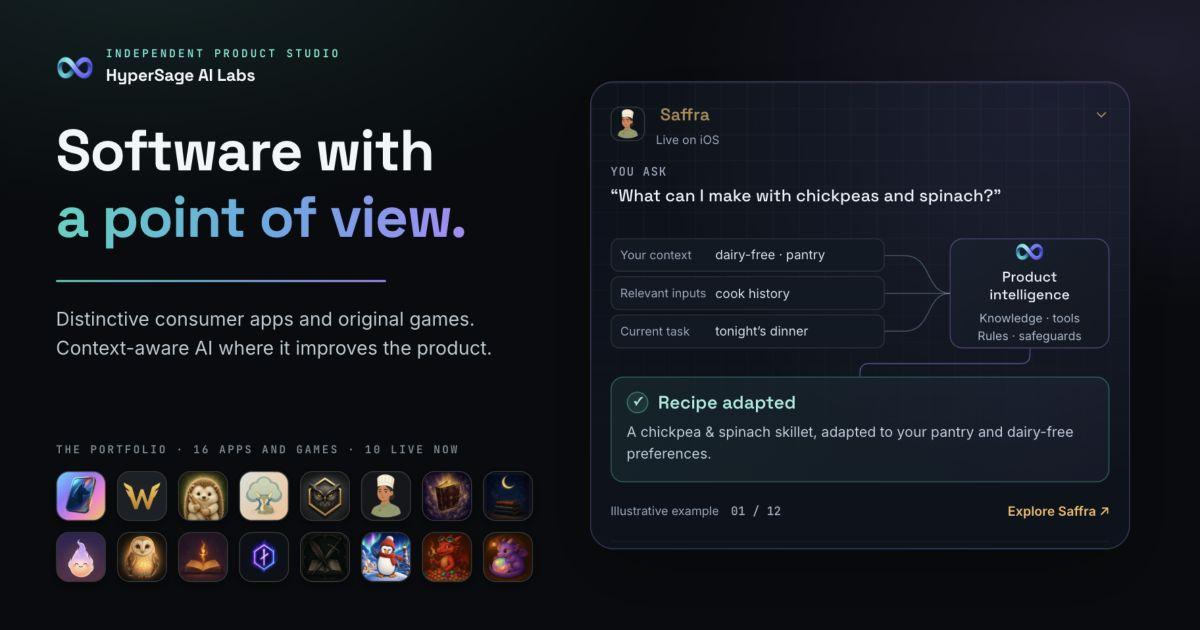
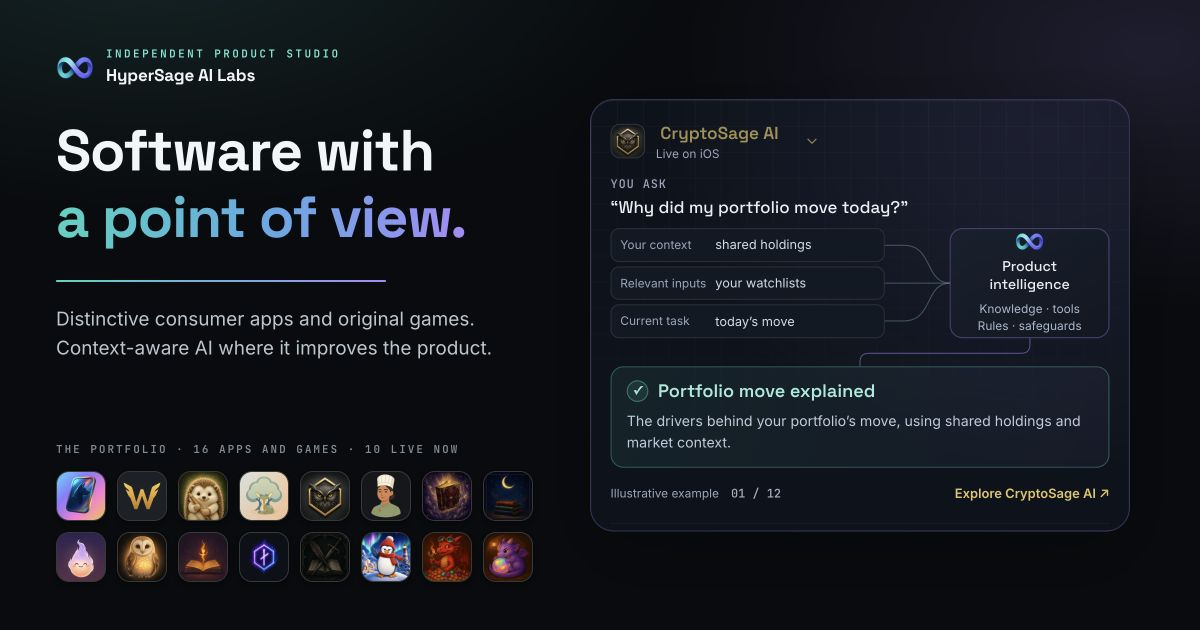
Tighten hero spacing and restore portfolio breadth

diff --git a/index.html b/index.html
@@ -17,7 +17,7 @@
   <meta property="og:description" content="HyperSage is an independent studio building distinctive consumer apps and original games, with context-aware AI where it improves the product.">
   <meta property="og:url" content="https://hypersage.ai/">
   <meta property="og:site_name" content="HyperSage AI Labs">
-  <meta property="og:image" content="https://hypersage.ai/og-image.png?v=20260907b">
+  <meta property="og:image" content="https://hypersage.ai/og-image.png?v=20260907c">
   <meta property="og:image:type" content="image/png">
   <meta property="og:image:width" content="1200">
   <meta property="og:image:height" content="630">
@@ -25,7 +25,7 @@
   <meta name="twitter:card" content="summary_large_image">
   <meta name="twitter:title" content="HyperSage AI Labs — Independent Product Studio">
   <meta name="twitter:description" content="HyperSage is an independent studio building distinctive consumer apps and original games, with context-aware AI where it improves the product.">
-  <meta name="twitter:image" content="https://hypersage.ai/og-image.png?v=20260907b">
+  <meta name="twitter:image" content="https://hypersage.ai/og-image.png?v=20260907c">
   <meta name="twitter:image:alt" content="HyperSage AI Labs — an independent product studio">
 
   <link rel="icon" type="image/png" href="favicon.png">
@@ -42,7 +42,7 @@
         "legalName": "HyperSage AI Labs LLC",
         "url": "https://hypersage.ai/",
         "logo": "https://hypersage.ai/apple-touch-icon.png",
-        "image": "https://hypersage.ai/og-image.png?v=20260907b",
+        "image": "https://hypersage.ai/og-image.png?v=20260907c",
         "description": "An independent studio building distinctive consumer apps and original games, with context-aware AI where it improves the product.",
         "email": "support@hypersage.ai",
         "address": { "@type": "PostalAddress", "addressRegion": "DE", "addressCountry": "US" }
@@ -257,7 +257,7 @@
     /* Compact, complete examples: motion explains the flow, while text stays
        readable throughout. The unenhanced figure is the finished frame. */
     .context-engine {
-      --example-accent: #F2BB61;
+      --example-accent: #E2C565;
       grid-area: engine; position: relative; isolation: isolate; min-width: 0;
       width: 100%; max-width: 500px; justify-self: end; align-self: center;
       padding: 16px 18px 12px; overflow: hidden;
@@ -272,19 +272,19 @@
     }
     .example-app { display: flex; align-items: center; gap: 10px; min-width: 0; }
     .example-app > img { width: 32px; height: 32px; flex: 0 0 auto; border-radius: 9px; border: 1px solid var(--line-strong); }
-    .example-choice { min-width: 0; flex: 1; }
-    .example-choice select { display: block; width: 100%; height: 34px; margin: -3px 0 -1px; padding: 3px 22px 3px 0; border: 0; border-radius: 4px; background: transparent; color: var(--example-accent); font: 600 1rem/1.3 'Space Grotesk', sans-serif; cursor: pointer; }
+    .example-choice { position: relative; min-width: 0; flex: 1; }
+    .example-choice select { display: block; width: max-content; max-width: 100%; height: 44px; margin: 0; padding: 0 22px 15px 0; border: 0; border-radius: 4px; background: transparent; color: var(--example-accent); font: 600 1rem/1.15 'Space Grotesk', sans-serif; cursor: pointer; }
     .example-choice option { background: var(--panel); color: var(--fg); }
-    .example-availability { display: block; color: var(--muted); font-size: .69rem; line-height: 1.35; }
+    .example-availability { position: absolute; left: 0; bottom: 4px; pointer-events: none; color: var(--muted); font-size: .69rem; line-height: 1.2; }
     .example-controls { display: flex; gap: 3px; }
     .example-button { display: inline-flex; align-items: center; justify-content: center; min-width: 44px; height: 44px; padding: 0 8px; border: 1px solid var(--line); border-radius: 10px; background: rgba(255,255,255,.018); color: var(--fg); font: 500 .75rem/1 'Inter', sans-serif; cursor: pointer; }
     .example-button:hover { border-color: var(--example-accent); background: rgba(255,255,255,.055); }
     .example-button:focus-visible, .example-choice select:focus-visible { outline: 2px solid var(--brand-a); outline-offset: 3px; }
     .example-controls[hidden] { display: none; }
-    .example-scene { margin-top: 14px; }
+    .example-scene { margin-top: 10px; }
     .example-label { display: block; font: 500 .69rem/1.4 'JetBrains Mono', monospace; letter-spacing: .075em; text-transform: uppercase; color: var(--muted); }
-    .example-prompt { margin-top: 4px; min-height: 44px; font: 500 .98rem/1.4 'Space Grotesk', sans-serif; color: var(--fg); text-wrap: pretty; }
-    .example-flow { position: relative; margin-top: 6px; height: 128px; }
+    .example-prompt { margin-top: 3px; min-height: 22px; font: 500 .98rem/1.4 'Space Grotesk', sans-serif; color: var(--fg); text-wrap: pretty; }
+    .example-flow { position: relative; margin-top: 8px; height: 128px; }
     .engine-wires { position: absolute; inset: 0; width: 100%; height: 100%; overflow: visible; pointer-events: none; }
     .engine-wire { fill: none; stroke: rgba(129,181,196,.37); stroke-width: 1; vector-effect: non-scaling-stroke; }
     .engine-wire.output { stroke: rgba(167,139,250,.48); }
@@ -300,11 +300,11 @@
     .example-processor strong { font: 500 .82rem/1.25 'Space Grotesk', sans-serif; }
     .engine-faculties { font-size: .69rem; line-height: 1.45; color: #A7B8CD; }
     .engine-faculties span { display: block; }
-    .example-result { position: relative; padding: 12px 14px; min-height: 98px; border: 1px solid rgba(45,212,191,.3); border-radius: 12px; background: linear-gradient(115deg,rgba(45,212,191,.08),rgba(167,139,250,.055)); }
+    .example-result { position: relative; padding: 11px 14px; min-height: 94px; border: 1px solid rgba(45,212,191,.3); border-radius: 12px; background: linear-gradient(115deg,rgba(45,212,191,.08),rgba(167,139,250,.055)); }
     .example-status { display: flex; align-items: center; gap: 9px; color: #A0EBDC; font: 600 1.05rem/1.3 'Space Grotesk', sans-serif; }
     .example-check { display: inline-flex; align-items: center; justify-content: center; width: 20px; height: 20px; flex: 0 0 auto; border: 1px solid rgba(45,212,191,.4); border-radius: 50%; background: rgba(45,212,191,.1); font-size: .72rem; }
     .example-detail { font-size: .82rem; line-height: 1.5; color: #BDCADB; margin-top: 7px; min-height: 3em; }
-    .engine-foot { display: flex; justify-content: space-between; align-items: center; flex-wrap: wrap; gap: 0 8px; margin-top: 5px; }
+    .engine-foot { display: flex; justify-content: space-between; align-items: center; flex-wrap: wrap; gap: 0 8px; margin-top: 2px; }
     .engine-foot small { color: var(--muted); font-size: .69rem; }
     .engine-counter { margin-left: 8px; color: #A4AFC1; font: .69rem/1.3 'JetBrains Mono', monospace; }
     .example-link { display: inline-flex; align-items: center; min-height: 44px; color: var(--example-accent); font-size: .75rem; font-weight: 600; }
@@ -360,10 +360,11 @@
       section.hero { padding: 40px 0 44px; }
       .context-engine { padding: 14px 14px 10px; border-radius: 18px; margin-top: 24px; }
       .example-controls #example-prev, .example-controls #example-next { display: none; }
-      .example-choice select { height: 44px; margin-top: -7px; margin-bottom: -6px; font-size: .98rem; }
+      .example-choice select { font-size: .98rem; }
       .example-app { gap: 8px; }
       .example-app > img { width: 30px; height: 30px; }
-      .example-flow { height: 166px; }
+      .example-prompt { min-height: 44px; }
+      .example-flow { height: 166px; margin-top: 4px; }
       .example-context { height: 132px; }
       .example-context > div { display: flex; flex-direction: column; align-items: flex-start; justify-content: center; gap: 1px; padding: 4px 7px; }
       .example-context dt { flex: 0 0 auto; font-size: .69rem; }
@@ -878,7 +879,7 @@
         <span class="eyebrow">Independent Product Studio</span>
         <h1><span class="hero-line">Software with</span> <span class="grad-text hero-line">a point of view.</span></h1>
         <div class="hero-copy">
-          <p class="lede">We build consumer apps and original games. Our <strong>product-specific intelligence</strong> turns your context into a recipe for your kitchen, a brief for your doctor, or a reply that sounds like you.</p>
+          <p class="lede">HyperSage builds distinctive consumer apps for crypto markets, relationships, health, recovery, food, stories, and sleep — alongside original games. Where AI belongs, our <strong>product-specific intelligence layer</strong> brings together your context, relevant in-app activity, domain knowledge, tools, and safeguards.</p>
           <div class="hero-cta">
             <a href="#products" class="btn btn-primary"><span>Explore the products</span><span aria-hidden="true">→</span></a>
             <a class="hero-try" href="https://waddleton.pages.dev/" target="_blank" rel="noopener" aria-label="Play Waddleton free in your browser"><span class="u">Or play Waddleton free</span> <span aria-hidden="true">↗</span></a>
@@ -887,16 +888,16 @@
 
         <figure class="context-engine" aria-label="Product intelligence: from context to action">
           <div class="example-app">
-            <img id="example-icon" src="icons/saffra.webp" alt="" width="36" height="36">
+            <img id="example-icon" src="icons/cryptosage.webp" alt="" width="36" height="36">
             <div class="example-choice">
               <label class="sr-only" for="example-product">Choose a product walkthrough</label>
-              <select id="example-product" disabled>
+              <select id="example-product" aria-describedby="example-availability" disabled>
+                  <option value="cryptosage">CryptoSage AI</option>
                   <option value="saffra">Saffra</option>
                   <option value="rowan">Rowan</option>
                   <option value="loam">Loam</option>
                   <option value="wingmate">Wingmate</option>
                   <option value="quietoak">Quietoak</option>
-                  <option value="cryptosage">CryptoSage AI</option>
                   <option value="storyvault">StoryVault AI</option>
                   <option value="nightshelf">Nightshelf</option>
                   <option value="alder">Alder</option>
@@ -904,7 +905,7 @@
                   <option value="mythkin">Mythkin</option>
                   <option value="mythwright">Mythwright</option>
               </select>
-              <span class="example-availability">Live on iOS</span>
+              <span class="example-availability" id="example-availability">Live on iOS</span>
             </div>
             <div class="example-controls" hidden>
               <button type="button" class="example-button" id="example-prev" aria-label="Previous product walkthrough">←</button>
@@ -914,7 +915,7 @@
           </div>
           <div class="example-scene" id="example-scene">
             <span class="example-label">You ask</span>
-            <p class="example-prompt">“What can I make with chickpeas and spinach?”</p>
+            <p class="example-prompt">“Why did my portfolio move today?”</p>
             <div class="example-flow">
               <svg class="engine-wires" viewBox="0 0 464 128" preserveAspectRatio="none" aria-hidden="true">
                 <path class="engine-wire" d="M255 16H273C300 16 292 51 316 51"/>
@@ -927,19 +928,19 @@
                 <path class="engine-signal output" pathLength="100" d="M390 102V108Q390 116 382 116H240Q232 116 232 124V128"/>
               </svg>
             <dl class="example-context">
-              <div><dt>Your context</dt><dd>dairy-free · pantry</dd></div>
-              <div><dt>Relevant inputs</dt><dd>cook history</dd></div>
-              <div><dt>Current task</dt><dd>tonight’s dinner</dd></div>
+              <div><dt>Your context</dt><dd>shared holdings</dd></div>
+              <div><dt>Relevant inputs</dt><dd>your watchlists</dd></div>
+              <div><dt>Current task</dt><dd>today’s move</dd></div>
             </dl>
             <div class="example-processor"><img src="logo.png" alt="" width="27" height="18"><strong>Product intelligence</strong><div class="engine-faculties"><span>Knowledge · tools</span><span>Rules · safeguards</span></div></div>
             </div>
             <div class="example-result">
-              <div class="example-status"><span class="example-check" aria-hidden="true">✓</span><span id="example-result-status">Recipe adapted</span></div>
-              <p class="example-detail">A chickpea &amp; spinach skillet, adapted to your pantry and dairy-free preferences.</p>
+              <div class="example-status"><span class="example-check" aria-hidden="true">✓</span><span id="example-result-status">Portfolio move explained</span></div>
+              <p class="example-detail">The drivers behind your portfolio’s move, using shared holdings and market context.</p>
             </div>
           </div>
           <figcaption>
-            <div class="engine-foot"><small>Illustrative example <span class="engine-counter" aria-hidden="true">01 / 12</span></small><a class="example-link" href="/saffra/">Explore Saffra <span aria-hidden="true">&nbsp;↗</span></a></div>
+            <div class="engine-foot"><small>Illustrative example <span class="engine-counter" aria-hidden="true">01 / 12</span></small><a class="example-link" href="https://cryptosageai.io/">Explore CryptoSage AI <span aria-hidden="true">&nbsp;↗</span></a></div>
           </figcaption>
           <div class="engine-progress" aria-hidden="true"></div>
           <span class="sr-only" id="example-announcement" aria-live="polite" aria-atomic="true"></span>
@@ -1506,6 +1507,23 @@
       if (!engine) return;
       var cases = [
   {
+    "id": "cryptosage",
+    "name": "CryptoSage AI",
+    "color": "#E2C565",
+    "availability": "Live on iOS",
+    "prompt": "Why did my portfolio move today?",
+    "context": [
+      "shared holdings",
+      "your watchlists",
+      "today’s move"
+    ],
+    "result": "Portfolio move explained",
+    "detail": "The drivers behind your portfolio’s move, using shared holdings and market context.",
+    "url": "https://cryptosageai.io/",
+    "icon": "icons/cryptosage.webp",
+    "inputLabel": "You ask"
+  },
+  {
     "id": "saffra",
     "name": "Saffra",
     "color": "#F2BB61",
@@ -1588,23 +1606,6 @@
     "detail": "A DBT skill to practice, informed by your diary cards and recent conversations.",
     "url": "/quietoak/",
     "icon": "icons/quietoak.webp",
-    "inputLabel": "You ask"
-  },
-  {
-    "id": "cryptosage",
-    "name": "CryptoSage AI",
-    "color": "#E2C565",
-    "availability": "Live on iOS",
-    "prompt": "Why did my portfolio move today?",
-    "context": [
-      "shared holdings",
-      "your watchlists",
-      "today’s move"
-    ],
-    "result": "Portfolio move explained",
-    "detail": "The drivers behind your portfolio’s move, using shared holdings and market context.",
-    "url": "https://cryptosageai.io/",
-    "icon": "icons/cryptosage.webp",
     "inputLabel": "You ask"
   },
   {

diff --git a/privacy.html b/privacy.html
@@ -14,11 +14,11 @@
   <meta property="og:description" content="How the HyperSage AI Labs website handles data — it collects nothing, sets no cookies, and runs no analytics. Each product has its own policy.">
   <meta property="og:url" content="https://hypersage.ai/privacy.html">
   <meta property="og:site_name" content="HyperSage AI Labs">
-  <meta property="og:image" content="https://hypersage.ai/og-image.png?v=20260907b">
+  <meta property="og:image" content="https://hypersage.ai/og-image.png?v=20260907c">
   <meta property="og:image:width" content="1200">
   <meta property="og:image:height" content="630">
   <meta name="twitter:card" content="summary_large_image">
-  <meta name="twitter:image" content="https://hypersage.ai/og-image.png?v=20260907b">
+  <meta name="twitter:image" content="https://hypersage.ai/og-image.png?v=20260907c">
   <link rel="icon" type="image/png" href="favicon.png">
   <link rel="apple-touch-icon" sizes="180x180" href="apple-touch-icon.png">
   <link rel="stylesheet" href="fonts/fonts.css">

diff --git a/press.html b/press.html
@@ -13,11 +13,11 @@
   <meta property="og:description" content="Studio boilerplate, fact sheet, product one-liners, and downloadable logos and icons.">
   <meta property="og:url" content="https://hypersage.ai/press.html">
   <meta property="og:site_name" content="HyperSage AI Labs">
-  <meta property="og:image" content="https://hypersage.ai/og-image.png?v=20260907b">
+  <meta property="og:image" content="https://hypersage.ai/og-image.png?v=20260907c">
   <meta property="og:image:width" content="1200">
   <meta property="og:image:height" content="630">
   <meta name="twitter:card" content="summary_large_image">
-  <meta name="twitter:image" content="https://hypersage.ai/og-image.png?v=20260907b">
+  <meta name="twitter:image" content="https://hypersage.ai/og-image.png?v=20260907c">
   <link rel="icon" type="image/png" href="favicon.png">
   <link rel="apple-touch-icon" sizes="180x180" href="apple-touch-icon.png">
   <link rel="stylesheet" href="fonts/fonts.css">

diff --git a/support.html b/support.html
@@ -14,11 +14,11 @@
   <meta property="og:description" content="Get help with a HyperSage product, or reach the studio. Email support@hypersage.ai.">
   <meta property="og:url" content="https://hypersage.ai/support.html">
   <meta property="og:site_name" content="HyperSage AI Labs">
-  <meta property="og:image" content="https://hypersage.ai/og-image.png?v=20260907b">
+  <meta property="og:image" content="https://hypersage.ai/og-image.png?v=20260907c">
   <meta property="og:image:width" content="1200">
   <meta property="og:image:height" content="630">
   <meta name="twitter:card" content="summary_large_image">
-  <meta name="twitter:image" content="https://hypersage.ai/og-image.png?v=20260907b">
+  <meta name="twitter:image" content="https://hypersage.ai/og-image.png?v=20260907c">
   <link rel="icon" type="image/png" href="favicon.png">
   <link rel="apple-touch-icon" sizes="180x180" href="apple-touch-icon.png">
   <link rel="stylesheet" href="fonts/fonts.css">

diff --git a/terms.html b/terms.html
@@ -14,11 +14,11 @@
   <meta property="og:description" content="The terms that govern the HyperSage AI Labs website. Each product has its own terms.">
   <meta property="og:url" content="https://hypersage.ai/terms.html">
   <meta property="og:site_name" content="HyperSage AI Labs">
-  <meta property="og:image" content="https://hypersage.ai/og-image.png?v=20260907b">
+  <meta property="og:image" content="https://hypersage.ai/og-image.png?v=20260907c">
   <meta property="og:image:width" content="1200">
   <meta property="og:image:height" content="630">
   <meta name="twitter:card" content="summary_large_image">
-  <meta name="twitter:image" content="https://hypersage.ai/og-image.png?v=20260907b">
+  <meta name="twitter:image" content="https://hypersage.ai/og-image.png?v=20260907c">
   <link rel="icon" type="image/png" href="favicon.png">
   <link rel="apple-touch-icon" sizes="180x180" href="apple-touch-icon.png">
   <link rel="stylesheet" href="fonts/fonts.css">
